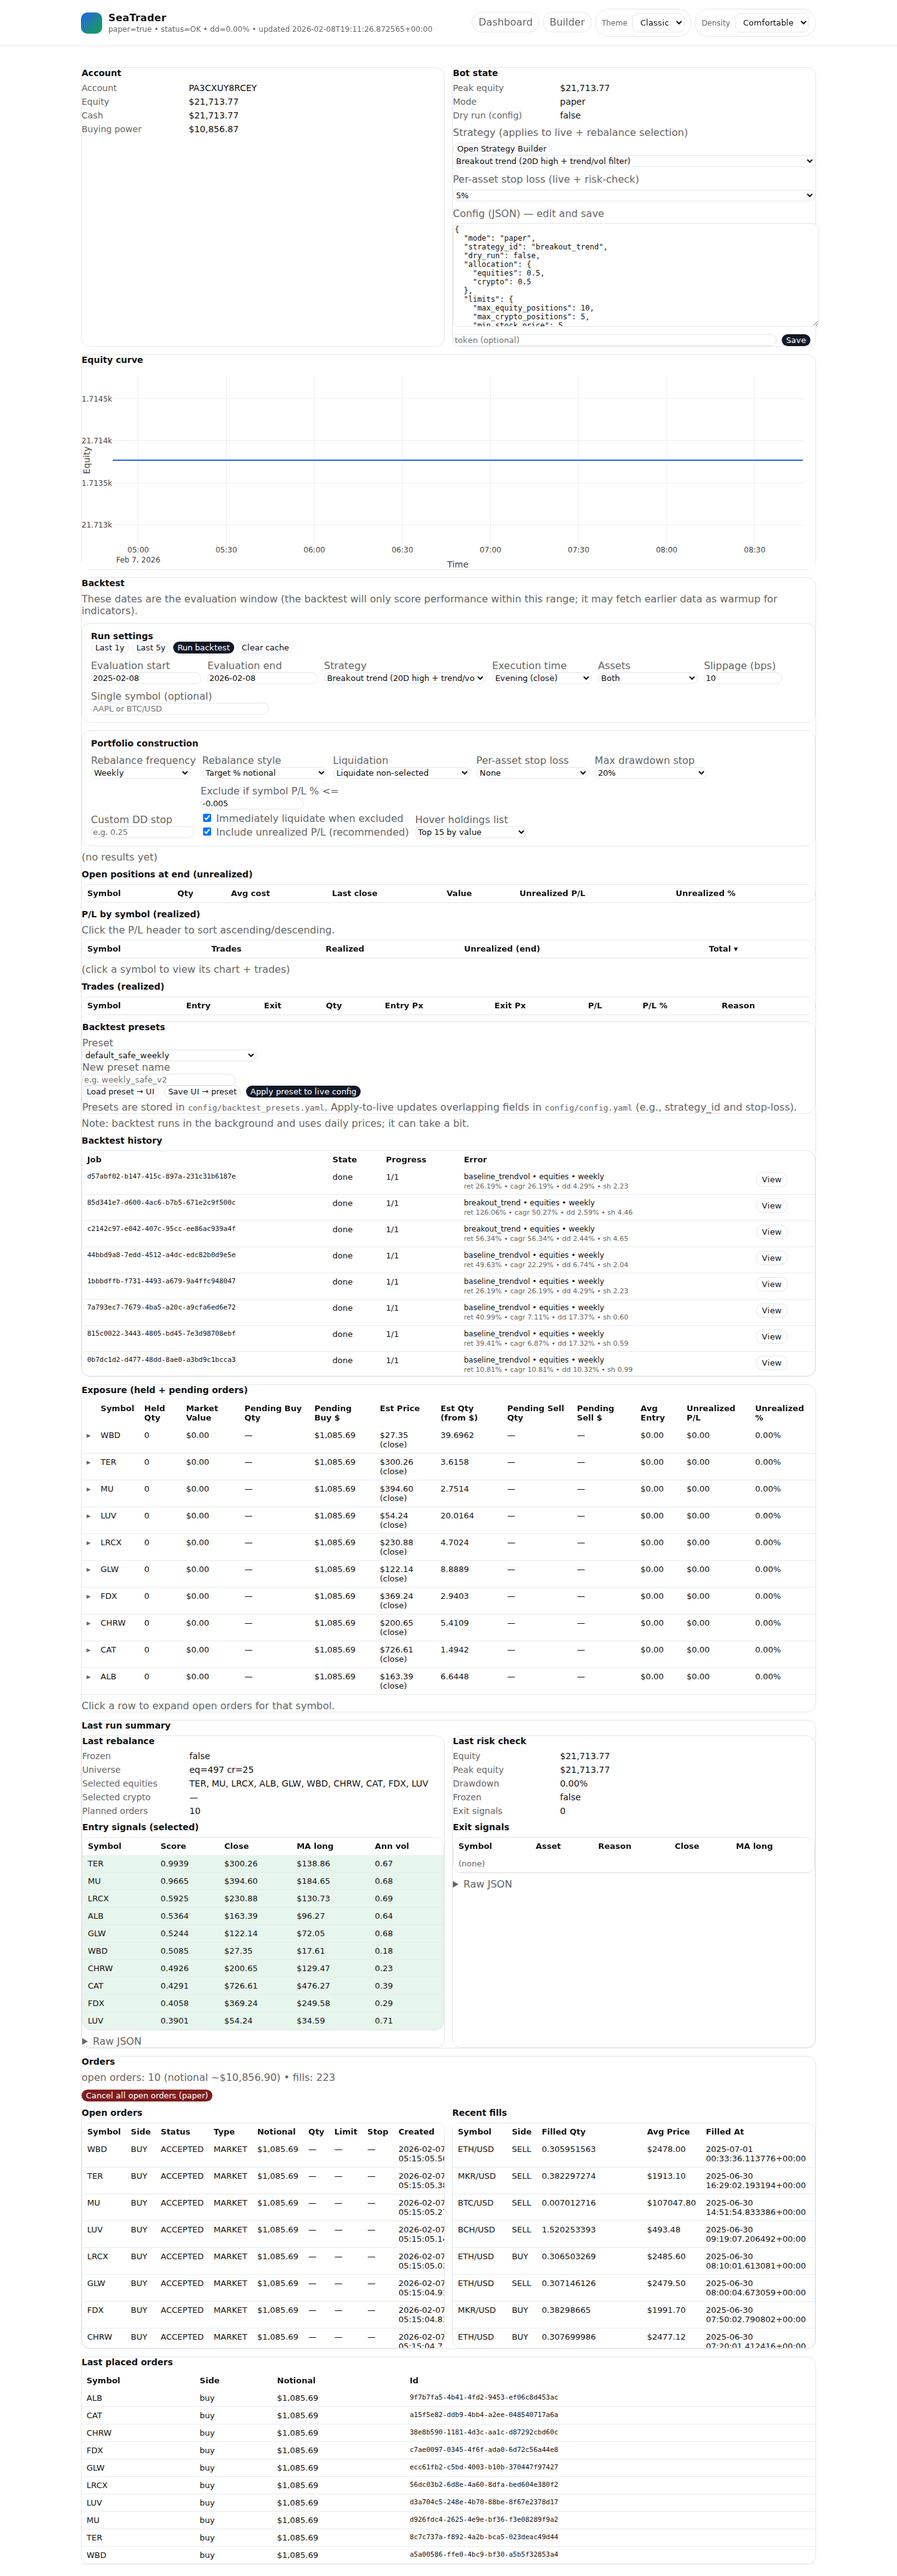
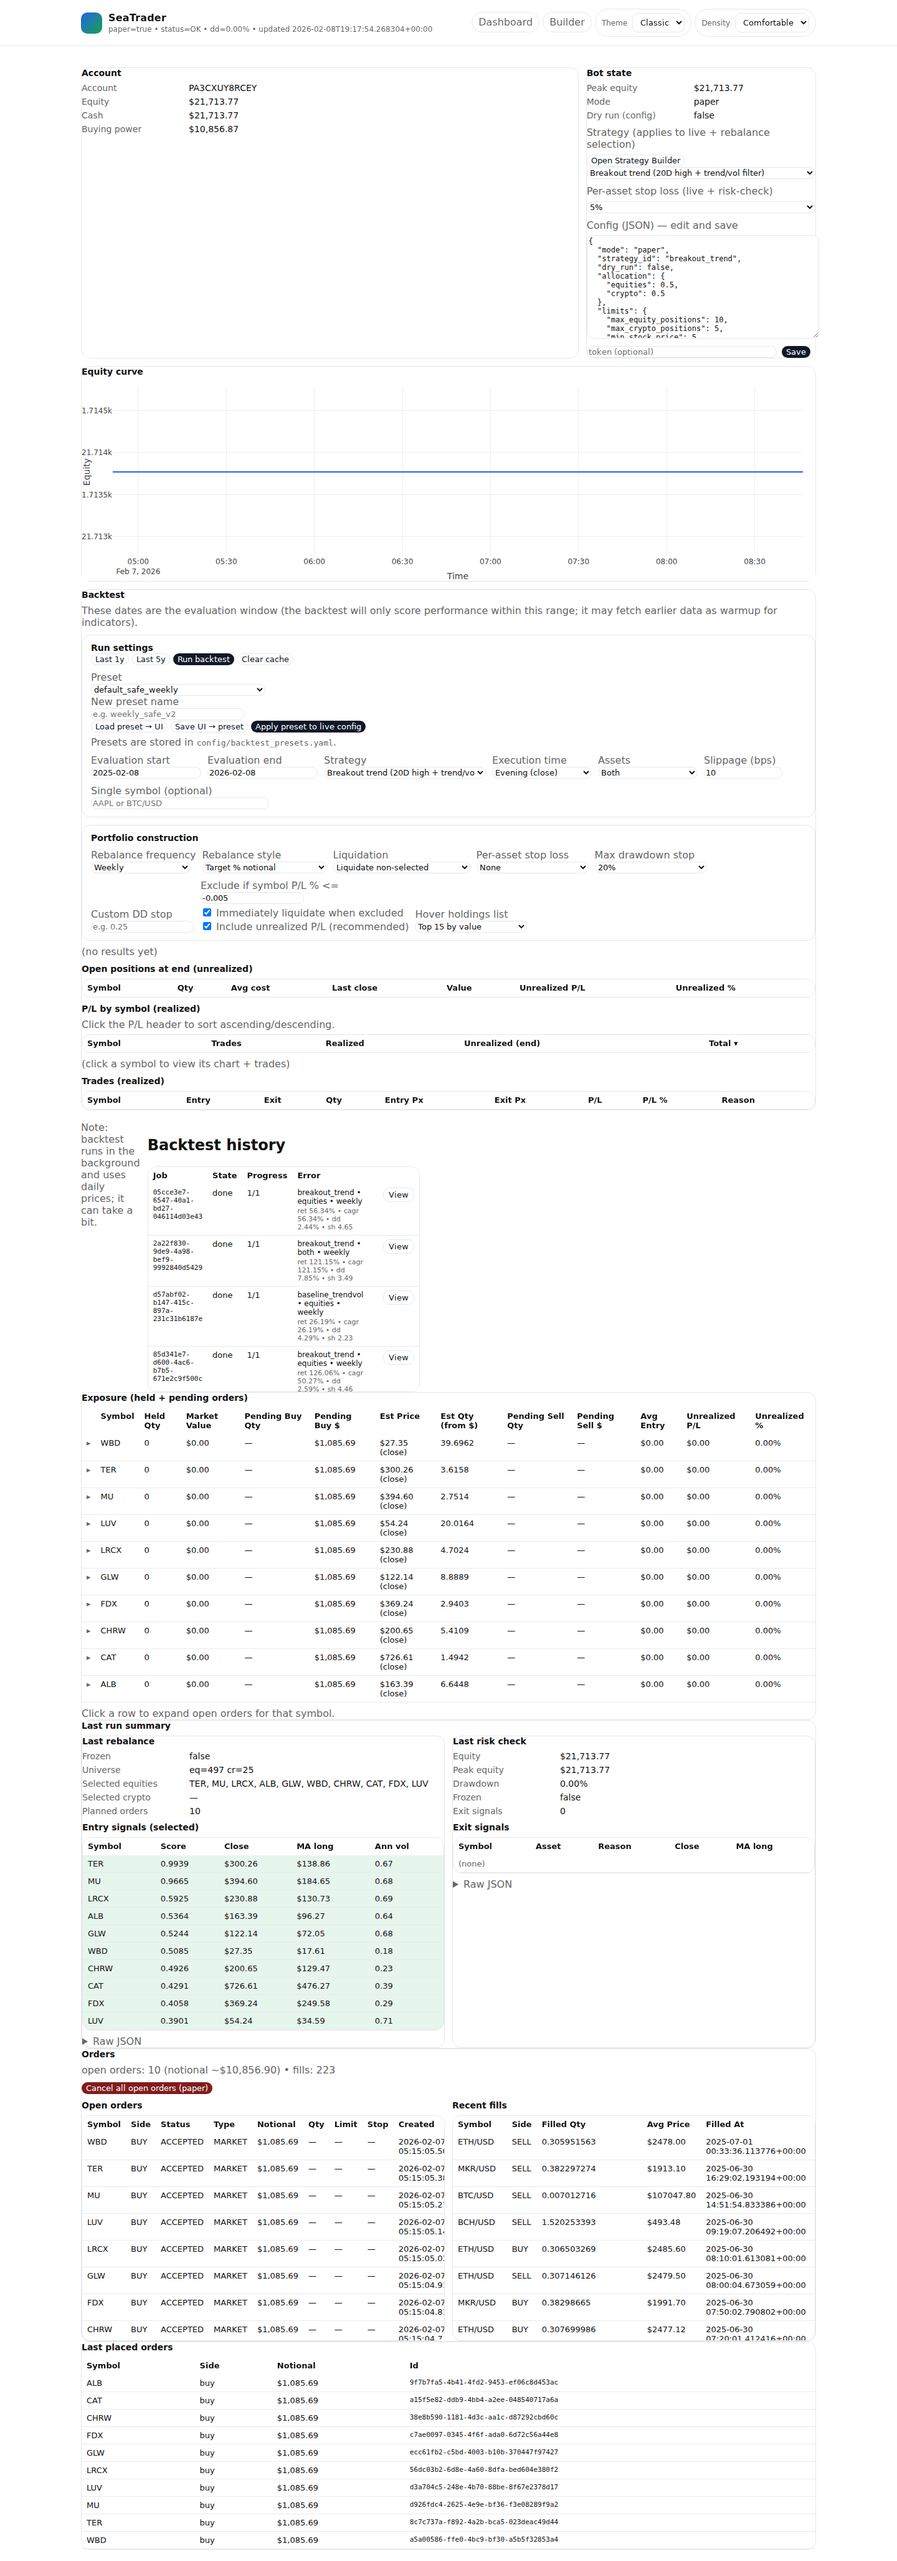
Move backtest presets to top of backtest section

diff --git a/src/tradebot/dashboard/index.html b/src/tradebot/dashboard/index.html
@@ -132,6 +132,26 @@
             </div>
           </div>
 
+          <div class="row" style="margin-top:10px; align-items:flex-end; justify-content:space-between;">
+            <div class="row" style="align-items:flex-end;">
+              <div>
+                <div class="muted">Preset</div>
+                <select id="btPreset" style="width:280px;"></select>
+              </div>
+              <div>
+                <div class="muted">New preset name</div>
+                <input id="btPresetName" placeholder="e.g. weekly_safe_v2" style="min-width:240px;" />
+              </div>
+            </div>
+            <div class="row" style="align-items:flex-end; gap:8px;">
+              <button id="btPresetLoad" class="secondary">Load preset → UI</button>
+              <button id="btPresetSave" class="secondary">Save UI → preset</button>
+              <button id="btPresetApply" class="primary">Apply preset to live config</button>
+              <span id="btPresetStatus" class="muted"></span>
+            </div>
+          </div>
+          <div class="muted" style="margin-top:6px;">Presets are stored in <code>config/backtest_presets.yaml</code>.</div>
+
           <div style="display:flex; gap:10px; align-items:flex-end; flex-wrap: wrap; margin-top:10px;">
             <div>
               <div class="muted">Evaluation start</div>
@@ -285,26 +305,8 @@
           </table>
         </div>
       </div>
-      <div style="margin-top:10px;" class="card">
-        <h2>Backtest presets</h2>
-        <div class="row">
-          <div>
-            <div class="muted">Preset</div>
-            <select id="btPreset" style="width:280px;"></select>
-          </div>
-          <div>
-            <div class="muted">New preset name</div>
-            <input id="btPresetName" placeholder="e.g. weekly_safe_v2" style="min-width:240px;" />
-          </div>
-          <div style="display:flex; gap:8px; align-items:flex-end;">
-            <button id="btPresetLoad" class="secondary">Load preset → UI</button>
-            <button id="btPresetSave" class="secondary">Save UI → preset</button>
-            <button id="btPresetApply" class="primary">Apply preset to live config</button>
-            <span id="btPresetStatus" class="muted"></span>
-          </div>
-        </div>
-        <div class="muted" style="margin-top:6px;">Presets are stored in <code>config/backtest_presets.yaml</code>. Apply-to-live updates overlapping fields in <code>config/config.yaml</code> (e.g., strategy_id and stop-loss).</div>
-      </div>
+      <!-- backtest presets moved to top -->
+</div>
 
       <div class="muted" style="margin-top:6px;">Note: backtest runs in the background and uses daily prices; it can take a bit.</div>
       <div style="margin-top:10px;">
